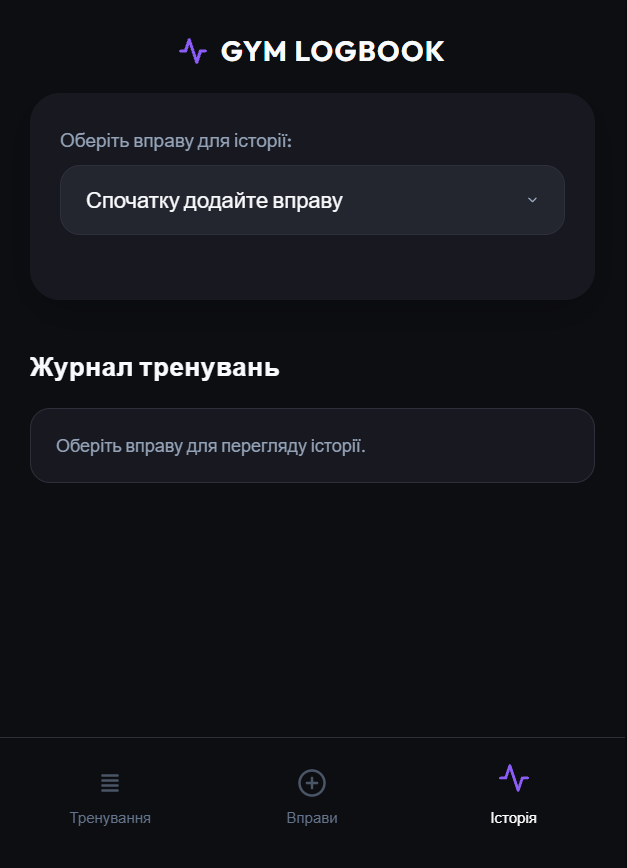
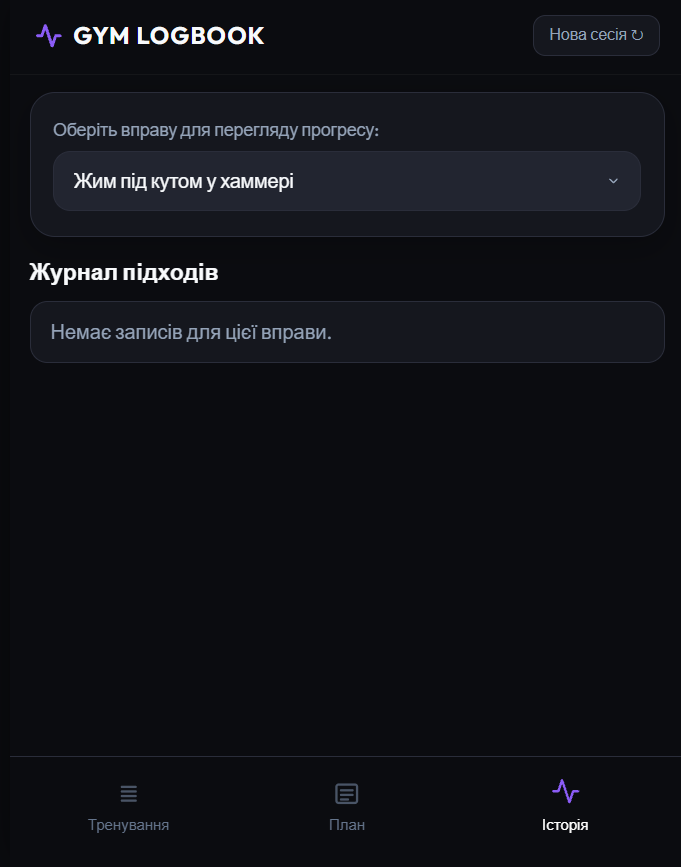
feat: update Gym Logbook v2.0 screenshots, details and add homepage about section

diff --git a/p/gym-logbook/index.html b/p/gym-logbook/index.html
@@ -4,8 +4,8 @@
   <meta charset="UTF-8">
   <meta name="viewport" content="width=device-width, initial-scale=1.0">
   <meta name="color-scheme" content="dark">
-  <title>Gym Logbook — Цифровий журнал силових тренувань (PWA / Offline) · Arsenii</title>
-  <meta name="description" content="Gym Logbook — мінімалістичний PWA-журнал тренувань для залу. Запис підходів і робочих ваг за лічені секунди, 100% офлайн, без реклами та підписок.">
+  <title>Gym Logbook v2.0 — Цифровий журнал силових тренувань (PWA / Offline) · Arsenii</title>
+  <meta name="description" content="Gym Logbook v2.0 — оновлений PWA-журнал тренувань: власні плани та спліти, альтернативні вправи для зайнятих тренажерів, глобальна історія та 100% робота офлайн.">
   <meta name="theme-color" content="#0c0c0e">
   <link rel="preconnect" href="https://fonts.googleapis.com">
   <link rel="preconnect" href="https://fonts.gstatic.com" crossorigin>
@@ -46,12 +46,12 @@
       <section class="prod-hero">
         <div class="prod-hero-copy">
           <p class="badge-line" style="color: var(--violet);">Web · PWA · Local-First · Zero-Telemetry</p>
-          <h1>Gym Logbook <span class="ver">v1.0</span></h1>
+          <h1>Gym Logbook <span class="ver">v2.0</span></h1>
           <p class="prod-sub">
-            Цифровий журнал силових тренувань. Жодного візуального сміття, реєстрацій чи реклами — запис робочої ваги та підходу займає менше 3 секунд.
+            Оновлений цифровий журнал силових тренувань зі сплітами, конструктором планів та альтернативними вправами на випадок зайнятого тренажера. Запис підходів за секунди, 100% офлайн.
           </p>
           <div class="tags">
-            <span>Vanilla JS</span><span>CSS3 Dark</span><span>LocalStorage</span><span>PWA</span><span>Offline-First</span>
+            <span>Vanilla JS</span><span>CSS3 Dark</span><span>LocalStorage</span><span>PWA</span><span>Offline-First</span><span>Workout Splits</span>
           </div>
           <div class="card-actions">
             <div class="cmd">
@@ -67,9 +67,9 @@
 
         <div class="prod-hero-shot">
           <div class="frame">
-            <span class="frame-bar"><i></i><i></i><i></i><em>Gym Logbook · Екран тренування</em></span>
+            <span class="frame-bar"><i></i><i></i><i></i><em>Gym Logbook v2.0 · Екран тренування</em></span>
             <button class="prod-shot-btn" type="button" data-shot="../../shots/gym-logbook.png" aria-label="Збільшити екран тренування Gym Logbook">
-              <img src="../../shots/gym-logbook.png" alt="Gym Logbook — додавання підходу" decoding="async">
+              <img src="../../shots/gym-logbook.png" alt="Gym Logbook — вкладка тренування зі сплітами та кнопкою Нова сесія" decoding="async">
             </button>
           </div>
         </div>
@@ -79,26 +79,38 @@
       <section class="prod-sec" id="gallery">
         <div class="prod-sec-head">
           <p class="sec-eyebrow">01 / Інтерфейс</p>
-          <h2>Знімки екрана</h2>
+          <h2>Знімки екрана (оновлення v2.0)</h2>
         </div>
         <div class="gallery">
           <figure>
             <button type="button" data-shot="../../shots/gym-logbook.png" aria-label="Екран запису тренування">
-              <img src="../../shots/gym-logbook.png" alt="Gym Logbook — поточне тренування" loading="lazy" decoding="async">
+              <img src="../../shots/gym-logbook.png" alt="Gym Logbook — Тренування А та створення програм" loading="lazy" decoding="async">
             </button>
-            <figcaption>Тренування — вибір вправи та фіксація підходу</figcaption>
+            <figcaption>Тренування — перемикання сплітів та «Нова сесія ↻»</figcaption>
           </figure>
           <figure>
-            <button type="button" data-shot="../../shots/gym-logbook-exercises.png" aria-label="Каталог вправ">
-              <img src="../../shots/gym-logbook-exercises.png" alt="Gym Logbook — створення вправи" loading="lazy" decoding="async">
+            <button type="button" data-shot="../../shots/gym-logbook-add.png" aria-label="Додавання вправи та альтернативи">
+              <img src="../../shots/gym-logbook-add.png" alt="Gym Logbook — модальне вікно додавання вправи з альтернативою" loading="lazy" decoding="async">
             </button>
-            <figcaption>Вправи — формування персональної програми</figcaption>
+            <figcaption>Додавання вправи — швидкий вибір та запасна альтернатива</figcaption>
+          </figure>
+          <figure>
+            <button type="button" data-shot="../../shots/gym-logbook-plan.png" aria-label="Вкладка План та налаштування тренувань">
+              <img src="../../shots/gym-logbook-plan.png" alt="Gym Logbook — вкладка План" loading="lazy" decoding="async">
+            </button>
+            <figcaption>План — створення сплітів, порядок та налаштування</figcaption>
+          </figure>
+          <figure>
+            <button type="button" data-shot="../../shots/gym-logbook-exercises.png" aria-label="Усі збережені вправи">
+              <img src="../../shots/gym-logbook-exercises.png" alt="Gym Logbook — список збережених вправ" loading="lazy" decoding="async">
+            </button>
+            <figcaption>Збережені вправи — перейменування з оновленням історії</figcaption>
           </figure>
           <figure>
             <button type="button" data-shot="../../shots/gym-logbook-history.png" aria-label="Журнал історії">
-              <img src="../../shots/gym-logbook-history.png" alt="Gym Logbook — журнал історії" loading="lazy" decoding="async">
+              <img src="../../shots/gym-logbook-history.png" alt="Gym Logbook — журнал історії та прогресу" loading="lazy" decoding="async">
             </button>
-            <figcaption>Історія — динаміка результатів по днях</figcaption>
+            <figcaption>Історія — перегляд прогресу та журнал підходів</figcaption>
           </figure>
         </div>
       </section>
@@ -112,15 +124,16 @@
         <div class="prod-cols">
           <div class="prod-prose">
             <p>
-              Більшість комерційних фітнес-застосунків перевантажені платними планами, трекерами активності, рекламою та обов'язковою реєстрацією, що сильно дратує безпосередньо під час тренування у тренажерному залі.
+              <strong>Gym Logbook</strong> — це автономний журнал тренувань із філософією <em>«zero-friction»</em>: жодних реєстрацій, платних підписок чи реклами, які заважають у залі. Усе працює миттєво, а дані зберігаються виключно у <code>LocalStorage</code> вашого пристрою без передачі на сторонні сервери.
             </p>
             <p>
-              <strong>Gym Logbook</strong> створено з філософією <em>«zero-friction»</em>: ви відкриваєте застосунок, обираєте вправу, тиснете одну кнопку для збереження ваги й продовжуєте відпочивати. Застосунок не надсилає жодних даних у мережу — все зберігається у захищеному LocalStorage вашого браузера та працює без інтернет-з'єднання.
+              В оновленні <strong>v2.0</strong> застосунок отримав повноцінний конструктор програм: тепер можна створювати окремі тренувальні дні (спліти на кшталт <em>«Тренування А»</em>, <em>«Спина/Груди»</em>), додавати вправи зі швидкого списку, прив'язувати <strong>запасну альтернативну вправу</strong> (якщо потрібний тренажер у залі зайнятий) та глобально перейменовувати вправи зі збереженням усієї історії підходів.
             </p>
           </div>
           <aside class="prod-facts">
             <h3>Характеристики</h3>
             <ul class="facts">
+              <li><b>Версія</b><span>v2.0 (Плани + Альтернативи)</span></li>
               <li><b>Платформа</b><span>Web · PWA (Mobile / Desktop)</span></li>
               <li><b>Зберігання</b><span>LocalStorage (локально)</span></li>
               <li><b>Мережа</b><span>100% Offline-ready</span></li>
@@ -140,23 +153,23 @@
         <div class="how-grid">
           <div class="how-step">
             <span class="how-num">01</span>
-            <h3>Додайте свої вправи</h3>
-            <p>У розділі «Вправи» введіть назви вправ вашої програми (напр. «Жим у Сміті», «Присідання», «Тяга блока»).</p>
+            <h3>Налаштуйте свій План</h3>
+            <p>У вкладці «План» створюйте тренувальні спліти (напр. «Тренування А»), змінюйте назви та порядок вправ.</p>
           </div>
           <div class="how-step">
             <span class="how-num">02</span>
-            <h3>Запишіть підхід</h3>
-            <p>На екрані «Тренування» оберіть поточну вправу зі списку та зафіксуйте кількість повторів та робочу вагу.</p>
+            <h3>Додайте вправу й альтернативу</h3>
+            <p>Обирайте зі швидкого списку вже створених вправ та вказуйте запасний варіант, якщо тренажер у залі зайнятий.</p>
           </div>
           <div class="how-step">
             <span class="how-num">03</span>
-            <h3>Збережіть результат</h3>
-            <p>Натисніть «Зберегти» — запис миттєво падає в локальну базу даних без затримок мережі чи очікування серверів.</p>
+            <h3>Фіксуйте підходи в сесії</h3>
+            <p>Записуйте ваги й повторення за секунди. Для наступного тренування натисніть «Нова сесія ↻» у верхньому куті.</p>
           </div>
           <div class="how-step">
             <span class="how-num">04</span>
-            <h3>Відстежуйте прогрес</h3>
-            <p>У вкладці «Історія» переглядайте попередні ваги та повторення, щоб забезпечити постійне прогресивне перевантаження.</p>
+            <h3>Контролюйте прогрес</h3>
+            <p>У вкладці «Історія» обирайте будь-яку вправу, аналізуйте журнал підходів та слідкуйте за зростанням ваг.</p>
           </div>
         </div>
       </section>
@@ -165,15 +178,17 @@
       <section class="prod-sec" id="features">
         <div class="prod-sec-head">
           <p class="sec-eyebrow">04 / Можливості</p>
-          <h2>Ключові особливості</h2>
+          <h2>Що вміє Gym Logbook v2.0</h2>
         </div>
         <ul class="feat-list">
-          <li>Миттєве завантаження (< 100 мс) завдяки легковагій чистій верстці без важких бібліотек</li>
-          <li>Повна працездатність у підвалах та залах без покриття мобільного інтернету</li>
-          <li>Три ключові вкладки навігації: «Тренування», «Вправи», «Історія»</li>
-          <li>Контрастний темний інтерфейс, оптимізований під роботу однією рукою зі смартфона</li>
-          <li>Встановлення як PWA на екран мобільного без завантаження з App Store / Play Market</li>
-          <li>Повна приватність: ваші фізичні показники не виходять за межі вашого смартфона</li>
+          <li>Підтримка кількох програм тренувань («Тренування А», «Тренування Б» тощо) зі швидким перемиканням</li>
+          <li>Опція запасної (альтернативної) вправи на випадок зайнятого тренажера в залі</li>
+          <li>Швидкий вибір із бази вже створених вправ при додаванні в поточну сесію</li>
+          <li>Збереження доданої вправи в шаблон тренування «на постійно» або разово на сесію</li>
+          <li>Глобальне перейменування вправ у вкладці «План» — назва автоматично оновлюється у всіх планах та всій історії</li>
+          <li>Кнопка «Нова сесія ↻» для чистого старту чергового візиту в зал</li>
+          <li>Повна робота офлайн (PWA + Service Worker) навіть у підвальних залах без мережі</li>
+          <li>Контрастний темний UI без реєстрацій, підписок, реклами чи телеметрії</li>
         </ul>
       </section>
 
@@ -194,7 +209,7 @@
           </div>
           <div class="stack-card">
             <span class="stack-g">Зберігання даних</span>
-            <div class="tags"><span>Window.localStorage</span><span>JSON serialization</span></div>
+            <div class="tags"><span>Window.localStorage</span><span>JSON state sync</span></div>
           </div>
           <div class="stack-card">
             <span class="stack-g">Деплой</span>
@@ -237,7 +252,7 @@
         <div class="prod-cta-box">
           <div>
             <h2>Візьміть Gym Logbook на наступне тренування</h2>
-            <p>Записуйте підходи легко, швидко та без зайвих відволікань.</p>
+            <p>Записуйте підходи легко, тримайте альтернативні вправи під рукою та відстежуйте прогрес.</p>
           </div>
           <div class="prod-cta-btns">
             <a class="btn btn-primary" href="https://arsen2010arsen.github.io/Gym-Logbook/" target="_blank" rel="noopener">Відкрити Gym Logbook ↗</a>

diff --git a/index.html b/index.html
@@ -24,6 +24,7 @@
       </a>
       <nav class="nav-links">
         <a href="#projects">Проєкти</a>
+        <a href="#about">Про підхід</a>
         <a href="https://github.com/arsen2010arsen" target="_blank" rel="noopener">GitHub ↗</a>
         <a href="https://t.me/riccardomorphine" target="_blank" rel="noopener" class="btn btn-sm btn-primary">
           <svg width="15" height="15" viewBox="0 0 24 24" fill="currentColor"><path d="M12 2C6.48 2 2 6.48 2 12s4.48 10 10 10 10-4.48 10-10S17.52 2 12 2zm4.64 6.8c-.15 1.58-.8 5.42-1.13 7.19-.14.75-.42 1-.68 1.03-.58.05-1.02-.38-1.58-.75-.88-.58-1.38-.94-2.23-1.5-.99-.65-.35-1.01.22-1.59.15-.15 2.71-2.48 2.76-2.69a.2.2 0 00-.05-.18c-.06-.05-.14-.03-.21-.02-.09.02-1.49.95-4.22 2.79-.4.27-.76.41-1.08.4-.36-.01-1.04-.2-1.55-.37-.63-.2-1.12-.31-1.08-.66.02-.18.27-.36.74-.55 2.92-1.27 4.86-2.11 5.83-2.51 2.78-1.16 3.35-1.36 3.73-1.36.08 0 .27.02.39.12.1.08.13.19.14.27-.01.06.01.24 0 .38z"/></svg>
@@ -148,21 +149,21 @@
         </article>
 
         <!-- GYM LOGBOOK -->
-        <article class="card" data-cat="web" data-search="gym logbook тренування зал спорт вправи ваги localstorage pwa javascript">
+        <article class="card" data-cat="web" data-search="gym logbook тренування зал спорт вправи ваги localstorage pwa javascript план спліт альтернатива">
           <a class="card-shot card-shot--open" href="./p/gym-logbook/" aria-label="Детальніше: Gym Logbook">
             <img src="./shots/gym-logbook.png" alt="Gym Logbook" loading="lazy" decoding="async">
           </a>
           <div class="card-body">
             <div class="card-head">
-              <h3><a href="./p/gym-logbook/">Gym Logbook</a> <span class="ver">v1.0</span></h3>
+              <h3><a href="./p/gym-logbook/">Gym Logbook</a> <span class="ver">v2.0</span></h3>
               <span class="cat">Web &amp; PWA · Local-first</span>
             </div>
-            <p class="card-sub">Цифровий журнал силових тренувань</p>
+            <p class="card-sub">Журнал тренувань із планами та альтернативами</p>
             <p class="card-desc">
-              Zero friction — запис підходу займає лічені секунди. 100% даних зберігаються виключно в LocalStorage браузера без сторонніх серверів чи реклами.
+              Спліти (Тренування А/В), вкладка «План», вибір запасних вправ при зайнятому тренажері та глобальне перейменування з оновленням історії. 100% офлайн у LocalStorage.
             </p>
             <div class="tags">
-              <span>Vanilla JS</span><span>CSS3 Dark</span><span>LocalStorage</span><span>PWA</span><span>Zero-Telemetry</span>
+              <span>Vanilla JS</span><span>CSS3 Dark</span><span>LocalStorage</span><span>PWA</span><span>Workout Splits</span>
             </div>
             <div class="card-actions">
               <div class="cmd">
@@ -245,10 +246,70 @@
     </div>
   </section>
 
+  <!-- ABOUT & PRINCIPLES SECTION -->
+  <section class="section-about" id="about">
+    <div class="container">
+      <div class="prod-sec-head">
+        <p class="sec-eyebrow">Підхід до розробки</p>
+        <h2>Легковажність, автономність та практична користь</h2>
+      </div>
+
+      <div class="principles-grid">
+        <div class="how-step">
+          <span class="how-num">01 · LOCAL-FIRST</span>
+          <h3>Без трекерів та зайвого шуму</h3>
+          <p>PWA-інструменти працюють автономно в браузері (LocalStorage + Service Worker), без реклами, платних підписок і передачі даних третім особам.</p>
+        </div>
+        <div class="how-step">
+          <span class="how-num">02 · PERFORMANCE</span>
+          <h3>Нативна швидкодія</h3>
+          <p>Десктопні утиліти на Rust та Tauri v2 споживають мінімум оперативної пам'яті (~25 МБ RAM) і миттєво відкриваються прямо з системного трею.</p>
+        </div>
+        <div class="how-step">
+          <span class="how-num">03 · LIVE TESTING</span>
+          <h3>Прозорий доступ до релізів</h3>
+          <p>Незалежно від того, чи відкритий вихідний код на GitHub, чи репозиторій закритий — кожен проєкт має робочий білд або веб-версію для тестування.</p>
+        </div>
+      </div>
+
+      <div class="stack-strip">
+        <span class="stack-strip-label">Основний стек</span>
+        <div class="tags">
+          <span>Rust</span>
+          <span>Tauri 2</span>
+          <span>Python 3</span>
+          <span>aiogram v3</span>
+          <span>Flutter / Dart</span>
+          <span>React 19</span>
+          <span>Vanilla JS</span>
+          <span>Google Gemini AI</span>
+          <span>MongoDB</span>
+          <span>Firebase</span>
+          <span>PWA / Service Worker</span>
+        </div>
+      </div>
+
+      <div class="home-cta">
+        <div class="prod-cta-box">
+          <div>
+            <h2>Маєте ідею або знайшли баг?</h2>
+            <p>Напишіть напряму у Telegram або перегляньте інші репозиторії в профілі GitHub.</p>
+          </div>
+          <div class="prod-cta-btns">
+            <a class="btn btn-primary" href="https://t.me/riccardomorphine" target="_blank" rel="noopener">Написати в Telegram ↗</a>
+            <a class="btn" href="https://github.com/arsen2010arsen" target="_blank" rel="noopener">Профіль GitHub ↗</a>
+          </div>
+        </div>
+      </div>
+    </div>
+  </section>
+
   <!-- FOOTER -->
   <footer class="site-footer">
     <div class="container footer-inner">
+      <p class="footer-note">Arsenii · DIST Hub · Без cookies та сторонньої аналітики</p>
       <div class="footer-links">
+        <a href="#projects">Каталог</a>
         <a href="https://t.me/riccardomorphine" target="_blank" rel="noopener">✈ Telegram @riccardomorphine</a>
         <a href="https://github.com/arsen2010arsen" target="_blank" rel="noopener">🐙 GitHub</a>
       </div>

diff --git a/styles.css b/styles.css
@@ -1317,3 +1317,69 @@ body {
     padding: 22px;
   }
 }
+
+/* ==========================================================================
+   HOMEPAGE ABOUT / STACK / CTA SECTIONS
+   ========================================================================== */
+
+.section-about {
+  padding: 50px 0 70px;
+  border-top: 1px solid var(--line);
+}
+
+.principles-grid {
+  display: grid;
+  grid-template-columns: repeat(3, 1fr);
+  gap: 16px;
+}
+
+.stack-strip {
+  margin-top: 24px;
+  border: 1px solid var(--line);
+  border-radius: var(--r);
+  background: var(--panel);
+  padding: 20px 22px;
+  display: flex;
+  flex-wrap: wrap;
+  align-items: center;
+  justify-content: space-between;
+  gap: 16px;
+}
+
+.stack-strip-label {
+  font-family: var(--font-mono);
+  font-size: 11.5px;
+  letter-spacing: 0.1em;
+  text-transform: uppercase;
+  color: var(--dim);
+}
+
+.stack-strip .tags {
+  margin-top: 0;
+  padding-top: 0;
+}
+
+.home-cta {
+  margin-top: 28px;
+}
+
+.footer-inner {
+  flex-wrap: wrap;
+  justify-content: space-between;
+}
+
+.footer-note {
+  color: var(--dim);
+  font-size: 0.84rem;
+  font-family: var(--font-mono);
+}
+
+@media (max-width: 860px) {
+  .principles-grid {
+    grid-template-columns: 1fr;
+  }
+  .footer-inner {
+    justify-content: center;
+    text-align: center;
+  }
+}
